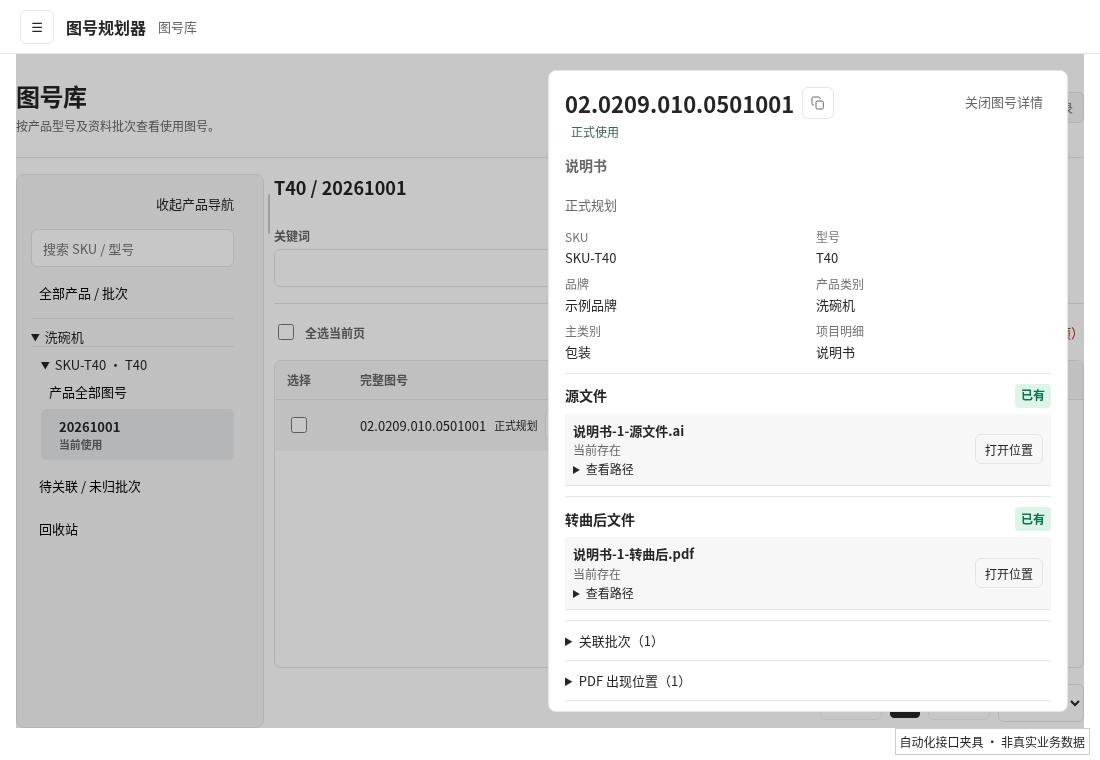
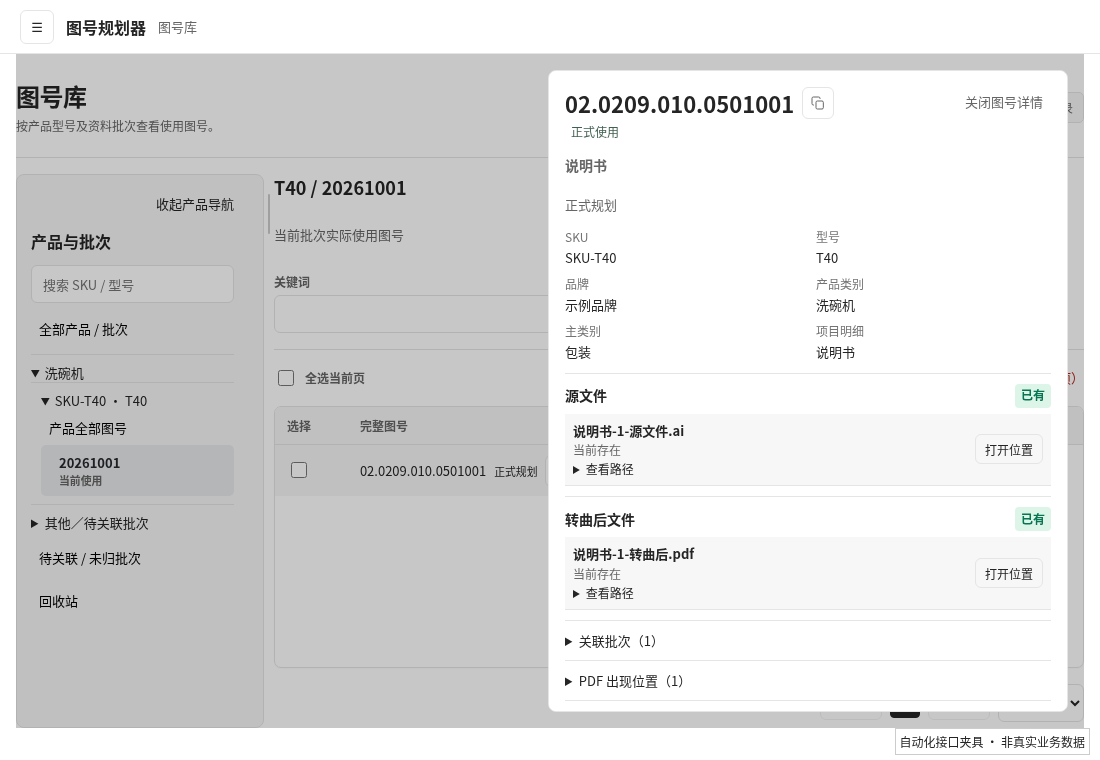
docs: record integrated acceptance and final browser screenshots

diff --git a/docs/p4-integrated-ui-20261017.md b/docs/p4-integrated-ui-20261017.md
@@ -21,3 +21,24 @@
 此文先记录实现方案，测试和截图结果在执行后补充。环境曾两次重建丢失未提交文件，本轮按各任务命令重建实现，测试必须重新执行，旧结果不能当作当前通过。采用阶段性远端检查点，测试串行限worker，避免资源争用。
 
 Windows目录包复用原已交付P4隔离样例和运行时；不新增记录制造密度。样例只有一版BOM，不能证明真实多版本差异全部验收。原生CI窗口内容尺寸与物理Windows4K最大化、系统DPI、跨屏和用户真实业务数据验收分别记录。
+
+
+## 人工验收步骤
+
+1. 完整解压最终验收包到新目录，双击 EXE，标题核对应用短版本。不覆盖旧版；包内独立数据供本轮验收。
+2. BOM 查询记录原总数/业务日期/原始提交时间，修改一个材质字段保存，确认总数不增加、原身份/日期不变，批次不铺开路径，详情无二维码关联及复制按钮。
+3. 产品档案核对固定八列，三种资料状态分别跳转对应产品/用途；多条匹配列出全部，未配置入口不自动创建。返回核对筛选与资料状态刷新。
+4. 图号库展开产品，点击当前/历史批次；核对列表是明确BOM/已完成外发使用关系而非所有扫描PDF。同码跨产品/批次使用不产生重复占号。没有明确关系的批次显示未确定，空列表不补造数据。
+5. 打开图号详情：完整图号与复制同行；两列基础信息；源文件/转曲后各自判断；路径/历史文件/关联批次默认折叠。历史批次无文件时不能替换成当前文件。多产品共用时只显示所选上下文文件。
+6. 管理图号中暂存PDF后取消，关联不变；保存、重复角色拒绝、部分失败后仅重试失败项。保存中切换导航/记录/关闭不能中断剩余保存。危险操作仅核对入口及保护，未经明确数据操作不要执行释放或删除。
+7. 邮件配置逐一切换模板/签名/联系人，新建/编辑/取消/保存；输入后拒绝离开保留输入，确认放弃后切换。删除编辑对象后不得留下指向已删除ID的编辑器；成功保存后列表刷新失败不重复创建。
+8. 返回工作台核对配置选择已刷新、手工正文保留。选择产品/批次、预览核对文件，按实际原流程生成包/邮件；此操作仅在明确隔离资料中验收，不选正式资料根目录。外发包/历史/命名和分包规则未调整。
+9. 在实际Windows 1080P/2K/4K最大化、普通/窄窗口及系统DPI/跨屏检查：整页无横向溢出；表格内部可横滚且操作列可达；抽屉独立滚动；保持筛选和产品导航上下文。
+
+原样例只有首次BOM记录，不能用于全部历史新增/删除/修改状态验收；原历史对照单元测试保留。真实多历史数据及物理Windows4K/DPI/跨屏仍需用户本机确认。
+
+## 回归范围与审查
+
+新增查询只读，不改原图号查重/占号/释放、二维码独立状态、BOM编辑及外发快照、PDF索引写入或磁盘原文件。独立审查发现的保存中导航锁、其他产品源文件归类、配置成功写入后刷新失败重复提交均已修正并增加回归；最终只读复查未发现这些修正中尚未处理的重要问题。
+
+全量测试不能称为全绿：此前16个同名基线失败涵盖Windows路径/临时产物清理及暂停Mock；详见机器可读报告。实际Windows原生验收记录与云端CSS视口模拟分开，避免将CI显示器尺寸当成人工物理4K验收。
